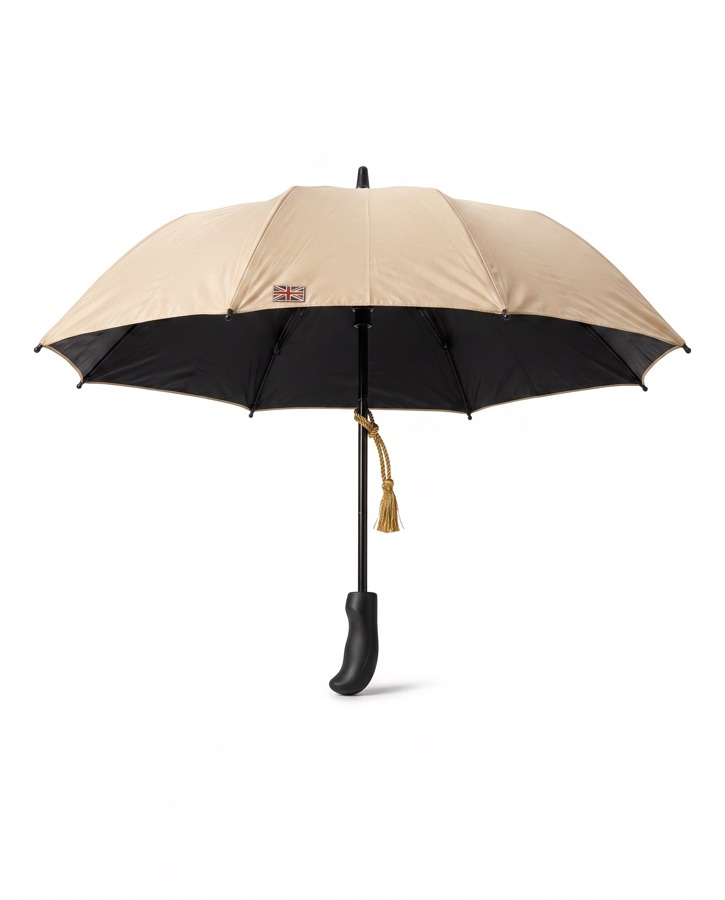
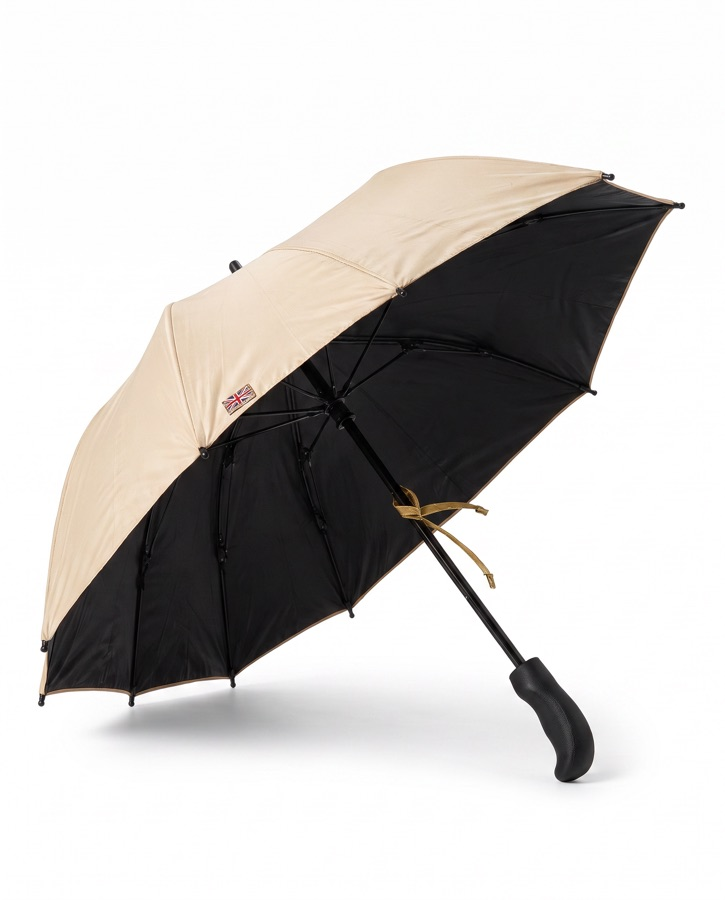
demo

diff --git a/demos/product-studio/index.html b/demos/product-studio/index.html
@@ -68,9 +68,11 @@ input{font:inherit;color:inherit}
 .mark span{color:var(--sumi-3);letter-spacing:.28em;font-size:9px;font-weight:700;
   text-transform:uppercase}
 .nright{margin-left:auto;display:flex;align-items:center;gap:16px}
-.live{display:inline-flex;align-items:center;gap:8px;font-size:10px;font-weight:700;
-  letter-spacing:.18em;text-transform:uppercase;color:var(--sumi-2);
+.live{display:inline-flex;align-items:center;gap:10px;font-size:9.5px;font-weight:700;
+  letter-spacing:.18em;text-transform:uppercase;color:var(--sumi-3);
   border:1px solid var(--line-2);padding:7px 14px;white-space:nowrap;background:var(--mat)}
+.live .mx{height:13px;width:auto}
+.live em{font-style:normal;padding-left:10px;border-left:1px solid var(--line)}
 .live i{width:5px;height:5px;border-radius:50%;background:var(--shu);
   box-shadow:0 0 0 3px rgba(184,64,44,.14);animation:bl 2.6s ease-in-out infinite}
 @keyframes bl{0%,100%{opacity:1}50%{opacity:.25}}
@@ -483,6 +485,10 @@ h1 .n{font-size:1.44em;line-height:0;vertical-align:-.045em;color:var(--shu);
 .foot .wrap{display:flex;gap:18px;flex-wrap:wrap;align-items:center;
   font-size:10.5px;color:var(--sumi-3)}
 .foot code{font-family:var(--mono);color:var(--sumi-2);font-size:10px}
+.foot .by{display:inline-flex;align-items:center;gap:9px;color:var(--sumi-2);font-weight:700;
+  letter-spacing:.1em;text-transform:uppercase;padding-right:18px;margin-right:2px;
+  border-right:1px solid var(--line-2)}
+.foot .mx{height:15px;width:auto}
 .foot .sp{margin-left:auto;font-family:var(--mono);letter-spacing:.2em;text-transform:uppercase}
 </style>
 </head>
@@ -492,7 +498,7 @@ h1 .n{font-size:1.44em;line-height:0;vertical-align:-.045em;color:var(--shu);
   <div class="wrap">
     <div class="mark"><b>AURORA</b><span>Studio</span></div>
     <div class="nright">
-      <span class="live"><i></i>Modellix ／ LLM + nano-banana-2</span>
+      <span class="live"><i></i><img class="mx" src="modellix.svg" alt="Modellix"><em>LLM + Nano Banana Pro</em></span>
     </div>
   </div>
 </header>
@@ -504,12 +510,12 @@ h1 .n{font-size:1.44em;line-height:0;vertical-align:-.045em;color:var(--shu);
       <p class="rail"><s></s><em>001</em>AI Product Photography</p>
       <h1 class="disp">商品写真は、<br><span class="n">1</span> 枚あれば<u>いい</u>。</h1>
       <p class="lead">スマホで撮った 1 枚を AI が読み取り、商品名・価格・説明文を書き起こしたうえで、
-        EC 掲載用の <b>プロ撮影 5 カット</b> を同時に生成します。
+EC 掲載用の <b>プロ撮影 5 カット</b> を同時に生成します。
         白背景・俯瞰・シズルマクロ・モデル着用・季節ロケーション。
         スタジオも、モデルも、ロケハンも要りません。</p>
       <div class="stats">
         <div class="stat"><b>5<i>カット</i></b><span>Parallel</span></div>
-        <div class="stat"><b>30–60<i>秒</i></b><span>Turnaround</span></div>
+        <div class="stat"><b>60–120<i>秒</i></b><span>Turnaround</span></div>
         <div class="stat"><b>¥0<i>撮影費</i></b><span>Per product</span></div>
       </div>
       <div class="cta">
@@ -712,7 +718,8 @@ h1 .n{font-size:1.44em;line-height:0;vertical-align:-.045em;color:var(--shu);
 
 <footer class="foot">
   <div class="wrap">
-    <span>商品の読み取りに <code>google/gemini-3.6-flash</code>、撮影に <code>google/nano-banana-2-edit</code> を 5 本同時。いずれも Modellix 経由。</span>
+    <span class="by">Powered by <img class="mx" src="modellix.svg" alt="Modellix"></span>
+    <span>商品の読み取りに <code>google/gemini-3.6-flash</code>、撮影に <code>google/nano-banana-pro-edit</code> を 5 本同時。</span>
     <span class="sp">Aurora Mobile — Product Demo</span>
   </div>
 </footer>
@@ -767,10 +774,10 @@ h1 .n{font-size:1.44em;line-height:0;vertical-align:-.045em;color:var(--shu);
  * ════════════════════════════════════════════════════════════ */
 
 var API     = "/api/v1";
-var MODEL   = "google/nano-banana-2-edit";
+var MODEL   = "google/nano-banana-pro-edit";
 var ASPECT  = "4:5";              // EC の縦カット。5 枚とも揃えないと商品ページで段差が出る
-var SIZE    = "1K";               // 2K は 1 枚 6MB 前後。展示回線では 1K のほうが体験が良い
-var TIMEOUT = 4 * 60 * 1000;      // 実測 20〜60 秒。余裕を持って 4 分で打ち切る
+var SIZE    = "2K";               // 商談は大画面。1K だと粗さが目に付くので 2K で出す
+var TIMEOUT = 5 * 60 * 1000;      // Pro は実測 30〜80 秒。余裕を持って 5 分で打ち切る
 var MAX_SIDE = 1400;              // 参照画像の長辺。これ以上は仕上がりに効かない
 var LLM_API  = "/api/llm/v1";     // 画像・動画とはホストが別（proxy が振り分ける）
 var LLM      = "google/gemini-3.6-flash";
@@ -823,16 +830,29 @@ var STYLES = [
       "Sharp from front to back, neutral white balance, no studio reflections. "+
       "Do NOT: redesign, recolour or restyle the product; alter any logo or lettering; add props, hands, text or watermarks; crop any part of the product."; } },
 
-  { id:"flatlay", n:"俯瞰フラットレイ", en:"Overhead Flat Lay", sample:"samples/flatlay.jpg",
+  { id:"flatlay", n:"別アングル・俯瞰", en:"High Angle", sample:"samples/flatlay.jpg",
     role:"技術の証明", cost:12000, lead:"3 日",
-    d:"正面 1 枚から視点そのものが変わる。背景の差し替えではないことを示せる唯一のカット。背面は編集ではなく創作になるので作らない。",
-    build:function(v){ return "Re-photograph this exact "+v.kind+" from directly overhead — a true top-down flat lay — on a "+
-      (v.cut02_surface||"pale oak plank")+" surface. "+
-      "The product lies flat and centred, occupying about 60% of the frame height, with generous even margins. "+
-      "Soft broad slightly-directional daylight from the upper left; a short soft shadow anchoring it to the surface. "+
-      "Show only the top face that is visible or logically implied by the reference — same colour, material, logo placement and proportions. "+
-      "Do NOT: invent the back or underside of the product; redesign or recolour it; alter any logo or lettering; "+
-      "add props, hands, text or watermarks; tilt the camera off the vertical axis."; } },
+    d:"正面 1 枚から視点そのものが変わる。背景の差し替えではないことを示せる唯一のカット。真俯瞰が無理のある形（傘・ボトルなど）は 45 度のハイアングルに寄せる。背面は編集ではなく創作になるので作らない。",
+    build:function(v){
+      /* 真上からの一枚は、モデルが見たことのない面を創作することになる。
+         平らに置ける商品だけ真俯瞰にして、そうでないものは 45 度に留める。
+         傘が壁掛けになったり、鞄が潰れたりするのは、ここを強制していたのが原因。 */
+      var top = v.cut02_angle === "top_down";
+      return "Re-photograph this exact "+v.kind+" from a camera raised above the reference viewpoint, on a "+
+      (v.cut02_surface||"pale oak plank")+" laid out horizontally and lit softly from above. "+
+      (top
+        ? "Camera directly overhead looking straight down — a true flat lay. The product lies flat on the side it naturally rests on, "
+        : "Camera raised to about a 45-degree high angle looking down at the product as it stands or rests naturally on the surface, ")+
+      "fully inside the frame, occupying about 60% of the frame height, with generous even margins. "+
+      "The product remains a single rigid intact object with exactly the same parts, part count, proportions, materials and logo placement as the reference — "+
+      "nothing is duplicated, mirrored, stretched, squashed, melted or merged, and no part is invented. "+
+      "It rests on the surface in a physically stable way with visible points of contact; if it cannot stand stably in the configuration "+
+      "shown in the reference, it lies on its side exactly as it naturally would. "+
+      "The surface is horizontal and gravity pulls downward into the frame. "+
+      "Soft broad daylight from the upper left, with a short soft contact shadow anchoring the product to the surface. "+
+      "Do NOT: invent the back or underside; duplicate, mirror or merge any part of the product; deform, squash or stretch it; "+
+      "hang or mount it on a vertical wall; open, close or reconfigure it differently from the reference; "+
+      "add props, hands, text or watermarks."; } },
 
   { id:"sizzle", n:"シズルマクロ", en:"Sizzle Macro", sample:"samples/sizzle.jpg",
     role:"質感", cost:45000, lead:"1 週間",
@@ -848,14 +868,18 @@ var STYLES = [
   { id:"model", n:"モデル着用・使用", en:"In Use / Model", sample:"samples/model.jpg",
     role:"コスト差",  cost:350000, lead:"2 週間",
     d:"モデル・スタジオ・修整と、2 週間の調整が要る 1 枚。首から下・後ろ姿・手元だけに絞る。生成が崩れる顔と指を避けつつ、肖像権の都合で日本の EC が実際に多用する構図でもある。",
-    build:function(v){ return "Show this exact "+v.kind+" in use by a person. "+
+    build:function(v){ return "Show this exact "+v.kind+" in use by a person, "+
+      (v.cut04_setting||"in a calm Japanese setting where it is actually used")+". "+
       (v.cut04_use||"A person holds it naturally at waist height")+". "+
-      "Framed from the collarbone down — the face is never in frame. "+
-      "The product occupies about 30% of the frame height and is the sharpest thing in it; the person is secondary and softly lit. "+
-      "Soft natural window light, muted Japanese editorial palette, shallow depth of field. "+
-      "Hands, if visible, are relaxed and partly out of frame. "+
+      "Framed from the collarbone down: the head is outside the frame, and the product is never used to cover or stand in for the face. "+
+      "The product is held, worn or carried exactly as it is in real use, at its true real-world size relative to the body — "+
+      "neither shrunk nor enlarged — and it may be cropped by an edge of the frame if that is where it naturally sits. "+
+      "It is the sharpest thing in the picture; the person is secondary. "+
+      "Natural light appropriate to that setting, muted Japanese editorial palette, shallow depth of field. "+
+      "Hands are whole and relaxed, with five natural fingers, attached to arms that continue out of frame. "+
       "Keep the product exactly as in the reference — same shape, proportions, colour, material and every logo or label. "+
-      "Do NOT: show a face, a chin or a mouth; show splayed or deformed fingers; redesign or recolour the product; add text or watermarks."; } },
+      "Do NOT: show a face, a chin or a mouth; show splayed, extra or deformed fingers; use the product somewhere it would never be used "+
+      "(an umbrella opened indoors, a coat worn in summer); change its size relative to the body; redesign or recolour it; add text or watermarks."; } },
 
   { id:"season", n:"季節・催事ロケーション", en:"Seasonal Location", sample:"samples/season.jpg",
     role:"客が指定", cost:600000, lead:"3 週間", seasonal:true,
@@ -864,6 +888,8 @@ var STYLES = [
       (v.scene||"a quiet Japanese street in soft seasonal light")+". "+
       "This is an environmental, cinematic frame. The product stands or is held on a real support that the scene provides "+
       "— a table top, a counter, a cup holder, a bench, a hand — never balanced on the bare ground and never floating. "+
+      "Either no person is in frame at all, or one whole person seen from behind uses the product at a distance — "+
+      "never a hand or arm entering from the edge of the frame without a body. "+
       "It occupies roughly 20% of the frame height, sits in the near-middle ground and is partly overlapped by the surroundings, "+
       "yet is unmistakably present and the only thing in sharp focus. The location does the talking. "+
       "Rich natural light appropriate to the season, atmospheric depth, focus falling off behind. "+
@@ -892,9 +918,9 @@ var AI_SCHEMA = [
   { k:"price_jpy",     t:"Price"                },
   { k:"desc_ja",       t:"Copy",     wide:true  },
   { k:"keep_en",       t:"Preserve", cls:"en", wide:true },
-  { k:"cut02_surface", t:"Cut 02",   cls:"en"   },
+  { k:"_cut02",        t:"Cut 02",   cls:"en"   },
   { k:"cut03_sizzle",  t:"Cut 03",   cls:"en"   },
-  { k:"cut04_use",     t:"Cut 04",   cls:"en", wide:true },
+  { k:"_cut04",        t:"Cut 04",   cls:"en", wide:true },
   { k:"_seasons",      t:"Cut 05",   cls:"en", wide:true },
   { k:"_scene",        t:"Scene",    cls:"en", wide:true }
 ];
@@ -914,15 +940,24 @@ var AI_ASK =
   "keep_en: one English sentence listing the details a retoucher must preserve.\n" +
   "cut02_surface: short English noun phrase for a flat-lay surface that suits THIS product " +
   "(for example 'pale oak plank', 'warm grey concrete', 'washed linen cloth').\n" +
+  "cut02_angle: either 'top_down' or 'high_angle'. Choose 'top_down' ONLY if this product has a flat, stable resting side " +
+  "and a well-defined top face that a photographer could shoot straight down onto - flat packaging, a folded garment, " +
+  "stationery, cosmetics laid on their side. Choose 'high_angle' for anything tall, upright, hollow, hinged or umbrella-like, " +
+  "where a true overhead view would have to invent a face that the reference photo never shows.\n" +
   "cut03_sizzle: one English clause naming the tactile phenomenon that sells THIS product in extreme macro " +
   "- condensation beading on cold steel, rain beading on canopy fabric, steam rising from a rim, oiled leather grain, and so on. " +
   "It must be physically possible for this product.\n" +
-  "cut04_use: one English clause describing how a person uses or wears THIS product, framed from the collarbone down, " +
-  "no face, hands relaxed.\n" +
+  "cut04_setting: one short English clause naming the real place where THIS product is used, and whether it is indoors or outdoors " +
+  "(for example 'on a rain-soaked city pavement', 'in a bright minimal apartment', 'on a station platform in winter'). " +
+  "It must be somewhere the product would genuinely be used - an umbrella is never opened indoors.\n" +
+  "cut04_use: one English clause describing how a person holds, wears or carries THIS product in that setting, " +
+  "framed from the collarbone down, no face, hands relaxed.\n" +
   "cut05_scenes: object with keys sakura, tsuyu, summer, autumn, xmas, newyear. Each value is ONE English sentence " +
   "placing THIS product in a Japanese seasonal location where it would genuinely be used. " +
-  "Each sentence must name the surface or hand that actually supports the product - a cafe table, a counter, a cup holder, " +
-  "a picnic blanket, a gloved hand - so it is never left standing on bare ground or floating. " +
+  "Prefer a scene with no person in it, where the product rests on a named support - a cafe table, a counter, a cup holder, " +
+  "a picnic blanket, a stone step - so it is never left standing on bare ground or floating. " +
+  "Only if the product cannot rest anywhere (an opened umbrella, for instance) describe one whole person seen from behind, " +
+  "at a distance, using it. Never describe a hand or arm on its own. " +
   "Never place a product somewhere it would not plausibly be: an insulated bottle is carried on an outing or set on a table, " +
   "it does not stand alone in the rain; an umbrella belongs in rain or strong sun, not on a beach towel; " +
   "a leather bag is not left in a downpour.\n" +
@@ -1151,7 +1186,9 @@ function promptFor(st){
   var v = {
     kind: trimDot(ai.kind_en) || current.kind || "product",
     cut02_surface: trimDot(ai.cut02_surface),
+    cut02_angle:   ai.cut02_angle,
     cut03_sizzle:  trimDot(ai.cut03_sizzle),
+    cut04_setting: trimDot(ai.cut04_setting),
     cut04_use:     trimDot(ai.cut04_use),
     scene: trimDot(sceneFor(season))
   };
@@ -1251,6 +1288,10 @@ function paintAiRows(o, loading){
       }).join("　");
     }
     if(f.k === "_scene" && o) v = sceneFor(season);
+    if(f.k === "_cut04" && o) v = [o.cut04_setting, o.cut04_use].filter(Boolean).join(" / ");
+    if(f.k === "_cut02" && o){
+      v = (o.cut02_angle === "top_down" ? "top-down" : "45° high angle") + " / " + (o.cut02_surface || "—");
+    }
     if(Array.isArray(v)) v = v.join("・");
     if(f.k === "price_jpy" && v != null && v !== "") v = yen(v);
     row.innerHTML = '<dt>'+f.t+'</dt><dd class="'+(f.cls||"")+'">'+
